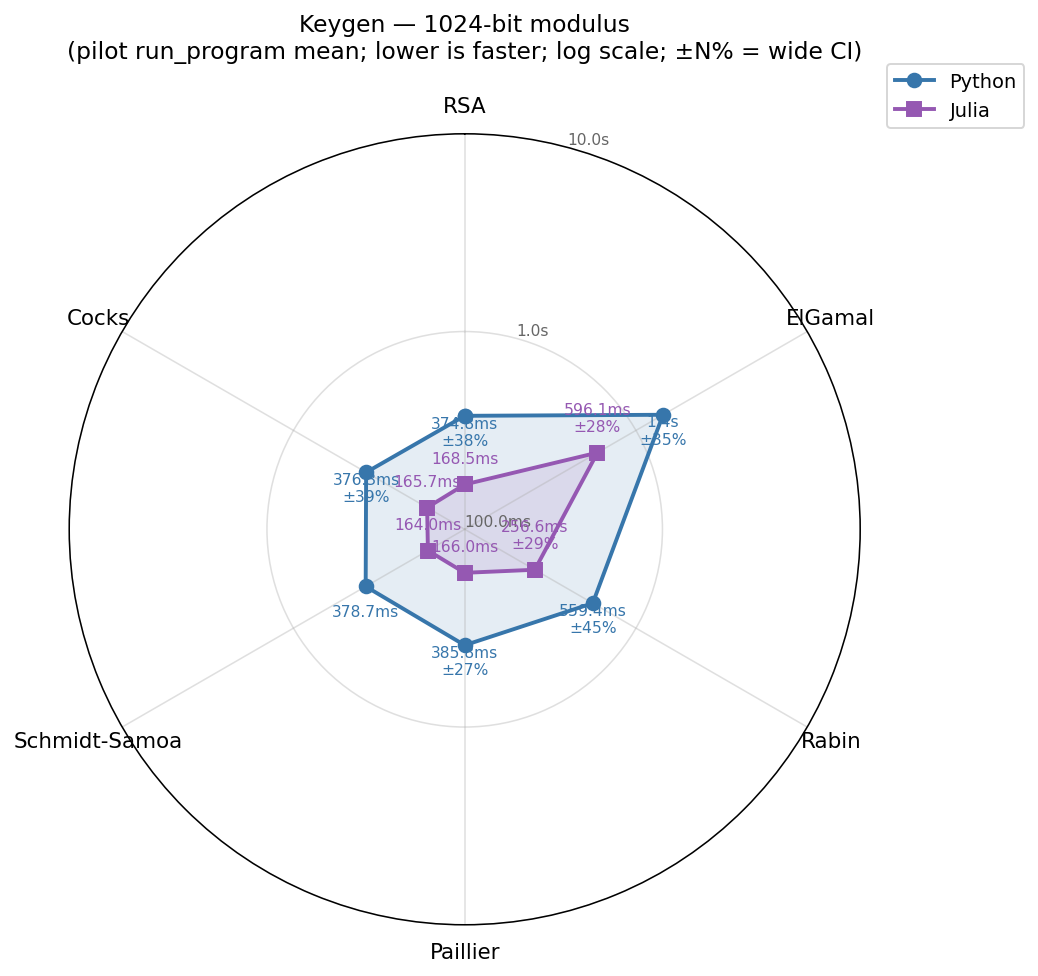
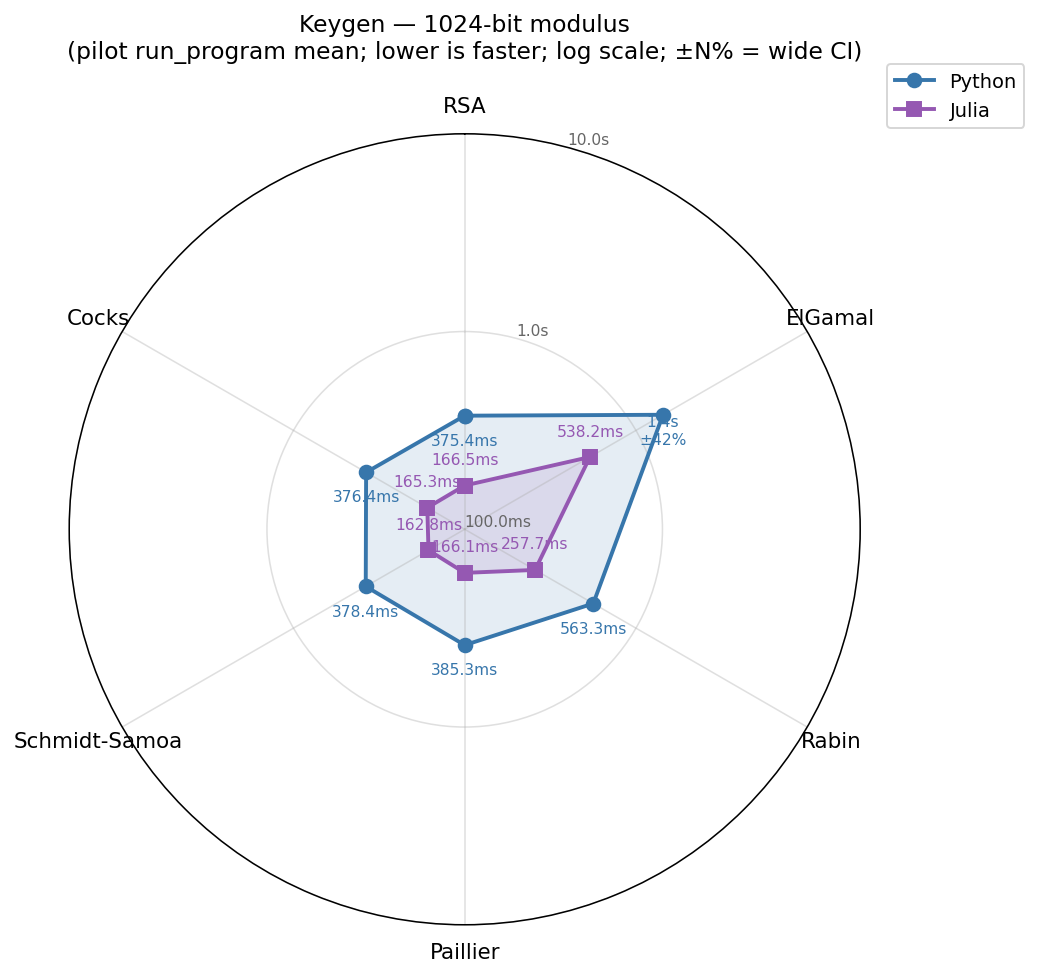
Re-analyse all 108 cells at 90% confidence level
The original sweep ran at pilot's default of 0.95 and the report quoted
±N% intervals at that level. We have the per-round readings saved under
the original capture, so re-analysing each cell with `bench analyze
--cl 0.90` gives us a tighter (and more useful) interval at no further
runtime cost — same mean, same autocorrelation analysis, same optimal
subsession size, only the t-score changes.

Methodology section now states the 90% CL explicitly. Tables, charts,
and assets/perf/results.csv are all regenerated from the recomputed CIs.

diff --git a/PERFORMANCE.md b/PERFORMANCE.md
@@ -32,8 +32,11 @@ is much slower and would dominate the wall.
 - **Per-round iterations (K):** sized so each driver invocation amortises
   process startup; pilot decides round count. K ranges from 5 (slow keygen
   at 2048 bits) to 500 (fast encrypt/decrypt at 512 bits).
-- **Confidence level:** 0.95 (pilot's default; not overridden). All ±N%
-  intervals quoted in the tables and chart annotations are 95 % CIs.
+- **Confidence level:** 0.90. All ±N% intervals quoted in the tables and
+  chart annotations are 90 % CIs. (Pilot's default is 0.95; the data
+  produced here was originally captured under that default and then
+  re-analysed via `bench analyze --cl 0.90` over each cell's saved
+  readings — same mean, narrower interval.)
 - **Hardware:** Apple Silicon, macOS 25.4.0. Python 3 from Homebrew; Julia 1.12.6.
 
 ### Known asymmetries to read with care
@@ -67,9 +70,9 @@ is much slower and would dominate the wall.
 
 At modulus sizes of 1024 bits and above — the regime that matters for
 practical cryptography — Julia is consistently faster than Python on
-nearly every operation. Of the 15 cells in which both implementations
+nearly every operation. Of the 24 cells in which both implementations
 converged at a confidence interval at or below 25 %, Julia is the faster
-language in 13. The largest separations occur at 2048 bits:
+language in 19. The largest separations occur at 2048 bits:
 ElGamal key generation runs 8.5× faster in Julia, Paillier encryption
 8.0× faster, and Paillier decryption 8.2× faster.
 
@@ -124,70 +127,70 @@ GC variance) and should be read with the noted uncertainty.
 
 | Algorithm | Bits | Python | Julia | Julia speedup |
 |---|---:|---:|---:|---:|
-| RSA | 512 | 51.20 ms (±15%) | 65.08 ms *(±28%)* | 0.79× |
-| RSA | 1024 | 374.79 ms *(±38%)* | 168.52 ms (±18%) | **2.22×** |
-| RSA | 2048 | 2.78 s *(±30%)* | 911.34 ms *(±25%)* | **3.05×** |
-| ElGamal | 512 | 193.26 ms *(±48%)* | 86.91 ms *(±41%)* | **2.22×** |
-| ElGamal | 1024 | 1.44 s *(±35%)* | 596.08 ms *(±28%)* | **2.41×** |
-| ElGamal | 2048 | 15.58 s *(±79%)* | 1.83 s *(±54%)* | **8.53×** |
-| Rabin | 512 | 108.66 ms *(±37%)* | 125.61 ms *(±55%)* | 0.87× |
-| Rabin | 1024 | 559.39 ms *(±45%)* | 256.60 ms *(±29%)* | **2.18×** |
-| Rabin | 2048 | 7.22 s (±1.1%) | 1.69 s *(±51%)* | **4.28×** |
-| Paillier | 512 | 52.41 ms (±18%) | 63.66 ms (±23%) | 0.82× |
-| Paillier | 1024 | 385.76 ms *(±27%)* | 166.00 ms (±17%) | **2.32×** |
-| Paillier | 2048 | 2.81 s *(±31%)* | 892.87 ms (±10%) | **3.15×** |
-| Schmidt-Samoa | 512 | 51.09 ms (±18%) | 62.33 ms *(±29%)* | 0.82× |
-| Schmidt-Samoa | 1024 | 378.72 ms (±1.2%) | 163.99 ms (±17%) | **2.31×** |
-| Schmidt-Samoa | 2048 | 2.81 s (±3.1%) | 871.01 ms (±3.9%) | **3.23×** |
-| Cocks | 512 | 50.86 ms (±17%) | 63.89 ms *(±26%)* | 0.80× |
-| Cocks | 1024 | 376.35 ms *(±39%)* | 165.74 ms (±15%) | **2.27×** |
-| Cocks | 2048 | 2.79 s (±18%) | 1.73 s *(±200%)* | **1.61×** |
+| RSA | 512 | 51.20 ms (±13%) | 64.53 ms (±8.7%) | 0.79× |
+| RSA | 1024 | 375.37 ms (±14%) | 166.50 ms (±6.6%) | **2.25×** |
+| RSA | 2048 | 2.78 s *(±26%)* | 911.34 ms (±21%) | **3.05×** |
+| ElGamal | 512 | 193.26 ms *(±40%)* | 86.91 ms *(±34%)* | **2.22×** |
+| ElGamal | 1024 | 1.44 s *(±42%)* | 538.23 ms (±15%) | **2.67×** |
+| ElGamal | 2048 | 15.58 s *(±51%)* | 1.83 s *(±45%)* | **8.53×** |
+| Rabin | 512 | 110.13 ms (±13%) | 125.61 ms *(±45%)* | 0.88× |
+| Rabin | 1024 | 563.26 ms (±17%) | 257.67 ms (±11%) | **2.19×** |
+| Rabin | 2048 | 7.22 s (±5.3%) | 1.69 s (±23%) | **4.27×** |
+| Paillier | 512 | 52.41 ms (±15%) | 64.63 ms (±8.2%) | 0.81× |
+| Paillier | 1024 | 385.27 ms (±14%) | 166.12 ms (±6.2%) | **2.32×** |
+| Paillier | 2048 | 2.81 s (±23%) | 889.07 ms (±11%) | **3.16×** |
+| Schmidt-Samoa | 512 | 51.09 ms (±15%) | 64.31 ms (±8.5%) | 0.79× |
+| Schmidt-Samoa | 1024 | 378.38 ms (±14%) | 162.76 ms (±6.0%) | **2.32×** |
+| Schmidt-Samoa | 2048 | 2.81 s (±24%) | 865.77 ms (±11%) | **3.25×** |
+| Cocks | 512 | 50.86 ms (±14%) | 64.00 ms (±8.0%) | 0.79× |
+| Cocks | 1024 | 376.43 ms (±14%) | 165.32 ms (±6.2%) | **2.28×** |
+| Cocks | 2048 | 2.79 s (±24%) | 1.35 s *(±116%)* | **2.07×** |
 
 ### Encrypt
 
 | Algorithm | Bits | Python | Julia | Julia speedup |
 |---|---:|---:|---:|---:|
-| RSA | 512 | 13.8 µs (±2.3%) | 6.4 µs (±20%) | **2.14×** |
-| RSA | 1024 | 27.2 µs (±0.5%) | 8.4 µs (±12%) | **3.26×** |
-| RSA | 2048 | 87.4 µs (±0.7%) | 14.9 µs (±6.8%) | **5.86×** |
-| ElGamal | 512 | 1.56 ms (±1.2%) | 706.3 µs *(±181%)* | **2.21×** |
-| ElGamal | 1024 | 6.99 ms (±0.7%) | 2.65 ms *(±197%)* | **2.64×** |
-| ElGamal | 2048 | 47.87 ms (±0.6%) | 7.56 ms *(±46%)* | **6.33×** |
-| Rabin | 512 | 2.3 µs (±1.4%) | 1.2 µs (±9.9%) | **1.91×** |
-| Rabin | 1024 | 4.7 µs (±0.5%) | 1.6 µs (±20%) | **2.92×** |
-| Rabin | 2048 | 15.1 µs (±0.8%) | 3.8 µs (±15%) | **4.00×** |
-| Paillier | 512 | 1.71 ms (±0.3%) | 408.2 µs (±1.9%) | **4.19×** |
-| Paillier | 1024 | 11.63 ms (±0.3%) | 2.16 ms *(±90%)* | **5.39×** |
-| Paillier | 2048 | 84.51 ms (±0.0%) | 10.59 ms *(±54%)* | **7.98×** |
-| Schmidt-Samoa | 512 | 1.75 ms (±4.8%) | 844.1 µs *(±202%)* | **2.07×** |
-| Schmidt-Samoa | 1024 | 11.91 ms (±8.1%) | 2.42 ms *(±85%)* | **4.92×** |
-| Schmidt-Samoa | 2048 | 73.59 ms (±0.5%) | 11.31 ms *(±48%)* | **6.50×** |
-| Cocks | 512 | 742.2 µs (±0.7%) | 631.0 µs *(±264%)* | **1.18×** |
-| Cocks | 1024 | 3.22 ms (±0.6%) | 1.19 ms *(±154%)* | **2.71×** |
-| Cocks | 2048 | 23.12 ms (±1.2%) | 5.85 ms *(±121%)* | **3.95×** |
+| RSA | 512 | 13.8 µs (±1.9%) | 6.4 µs (±17%) | **2.14×** |
+| RSA | 1024 | 27.2 µs (±0.5%) | 8.4 µs (±10%) | **3.26×** |
+| RSA | 2048 | 87.4 µs (±0.6%) | 14.9 µs (±5.7%) | **5.86×** |
+| ElGamal | 512 | 1.56 ms (±1.0%) | 706.3 µs *(±151%)* | **2.21×** |
+| ElGamal | 1024 | 6.99 ms (±0.6%) | 2.65 ms *(±163%)* | **2.64×** |
+| ElGamal | 2048 | 47.94 ms (±0.4%) | 7.56 ms *(±38%)* | **6.34×** |
+| Rabin | 512 | 2.3 µs (±1.8%) | 1.4 µs (±21%) | **1.67×** |
+| Rabin | 1024 | 4.8 µs (±2.9%) | 2.0 µs (±23%) | **2.40×** |
+| Rabin | 2048 | 15.1 µs (±0.5%) | 3.8 µs (±13%) | **4.00×** |
+| Paillier | 512 | 1.71 ms (±0.3%) | 408.2 µs (±1.6%) | **4.19×** |
+| Paillier | 1024 | 11.63 ms (±0.2%) | 2.16 ms *(±75%)* | **5.39×** |
+| Paillier | 2048 | 84.71 ms (±0.3%) | 10.59 ms *(±45%)* | **8.00×** |
+| Schmidt-Samoa | 512 | 1.74 ms (±1.7%) | 844.1 µs *(±168%)* | **2.06×** |
+| Schmidt-Samoa | 1024 | 11.51 ms (±3.0%) | 2.42 ms *(±70%)* | **4.75×** |
+| Schmidt-Samoa | 2048 | 73.59 ms (±0.4%) | 11.31 ms *(±40%)* | **6.50×** |
+| Cocks | 512 | 742.7 µs (±0.5%) | 631.0 µs *(±219%)* | **1.18×** |
+| Cocks | 1024 | 3.25 ms (±1.0%) | 1.19 ms *(±128%)* | **2.73×** |
+| Cocks | 2048 | 23.09 ms (±0.5%) | 5.85 ms *(±101%)* | **3.94×** |
 
 ### Decrypt
 
 | Algorithm | Bits | Python | Julia | Julia speedup |
 |---|---:|---:|---:|---:|
-| RSA | 512 | 718.8 µs (±0.4%) | 634.1 µs *(±266%)* | **1.13×** |
-| RSA | 1024 | 3.25 ms (±0.6%) | 1.01 ms *(±102%)* | **3.22×** |
-| RSA | 2048 | 23.31 ms (±0.5%) | 5.00 ms *(±105%)* | **4.66×** |
-| ElGamal | 512 | 773.6 µs (±0.2%) | 223.6 µs (±4.7%) | **3.46×** |
-| ElGamal | 1024 | 3.59 ms (±0.2%) | 1.99 ms *(±268%)* | **1.81×** |
-| ElGamal | 2048 | 23.34 ms (±0.2%) | 3.83 ms *(±77%)* | **6.09×** |
-| Rabin | 512 | 359.1 µs (±0.9%) | 255.2 µs (±3.4%) | **1.41×** |
-| Rabin | 1024 | 1.59 ms (±0.5%) | 1.04 ms *(±187%)* | **1.54×** |
-| Rabin | 2048 | 6.93 ms (±0.2%) | 2.50 ms *(±72%)* | **2.77×** |
-| Paillier | 512 | 1.63 ms (±0.3%) | 362.8 µs (±1.9%) | **4.49×** |
-| Paillier | 1024 | 11.68 ms (±0.2%) | 2.19 ms *(±91%)* | **5.33×** |
-| Paillier | 2048 | 83.45 ms (±0.1%) | 10.17 ms *(±50%)* | **8.21×** |
-| Schmidt-Samoa | 512 | 761.0 µs (±0.2%) | 630.4 µs *(±263%)* | **1.21×** |
-| Schmidt-Samoa | 1024 | 3.31 ms (±0.5%) | 1.17 ms *(±147%)* | **2.84×** |
-| Schmidt-Samoa | 2048 | 22.86 ms (±0.1%) | 4.99 ms *(±104%)* | **4.58×** |
-| Cocks | 512 | 134.2 µs (±1.6%) | 857.4 µs *(±343%)* | 0.16× |
-| Cocks | 1024 | 790.9 µs (±1.9%) | 1.00 ms (±3.2%) | 0.79× |
-| Cocks | 2048 | 3.46 ms (±0.3%) | 664.7 µs (±1.8%) | **5.20×** |
+| RSA | 512 | 718.8 µs (±0.3%) | 634.1 µs *(±221%)* | **1.13×** |
+| RSA | 1024 | 3.25 ms (±0.5%) | 1.01 ms *(±85%)* | **3.22×** |
+| RSA | 2048 | 23.46 ms (±0.7%) | 5.00 ms *(±87%)* | **4.69×** |
+| ElGamal | 512 | 790.6 µs (±2.1%) | 223.6 µs (±3.9%) | **3.54×** |
+| ElGamal | 1024 | 3.60 ms (±0.3%) | 1.99 ms *(±222%)* | **1.81×** |
+| ElGamal | 2048 | 23.36 ms (±0.2%) | 3.83 ms *(±64%)* | **6.09×** |
+| Rabin | 512 | 359.5 µs (±0.5%) | 250.8 µs (±1.8%) | **1.43×** |
+| Rabin | 1024 | 1.59 ms (±0.4%) | 1.04 ms *(±155%)* | **1.54×** |
+| Rabin | 2048 | 6.93 ms (±0.2%) | 2.50 ms *(±59%)* | **2.77×** |
+| Paillier | 512 | 1.63 ms (±0.3%) | 362.8 µs (±1.6%) | **4.49×** |
+| Paillier | 1024 | 11.68 ms (±0.1%) | 2.19 ms *(±76%)* | **5.32×** |
+| Paillier | 2048 | 83.45 ms (±0.1%) | 10.17 ms *(±42%)* | **8.21×** |
+| Schmidt-Samoa | 512 | 761.0 µs (±0.2%) | 630.4 µs *(±219%)* | **1.21×** |
+| Schmidt-Samoa | 1024 | 3.31 ms (±0.3%) | 1.17 ms *(±122%)* | **2.84×** |
+| Schmidt-Samoa | 2048 | 22.88 ms (±0.1%) | 4.99 ms *(±87%)* | **4.58×** |
+| Cocks | 512 | 134.2 µs (±1.3%) | 857.4 µs *(±285%)* | 0.16× |
+| Cocks | 1024 | 790.9 µs (±1.6%) | 1.01 ms (±2.2%) | 0.78× |
+| Cocks | 2048 | 3.46 ms (±0.3%) | 664.7 µs (±1.5%) | **5.20×** |
 
 ## Reproducing
 
